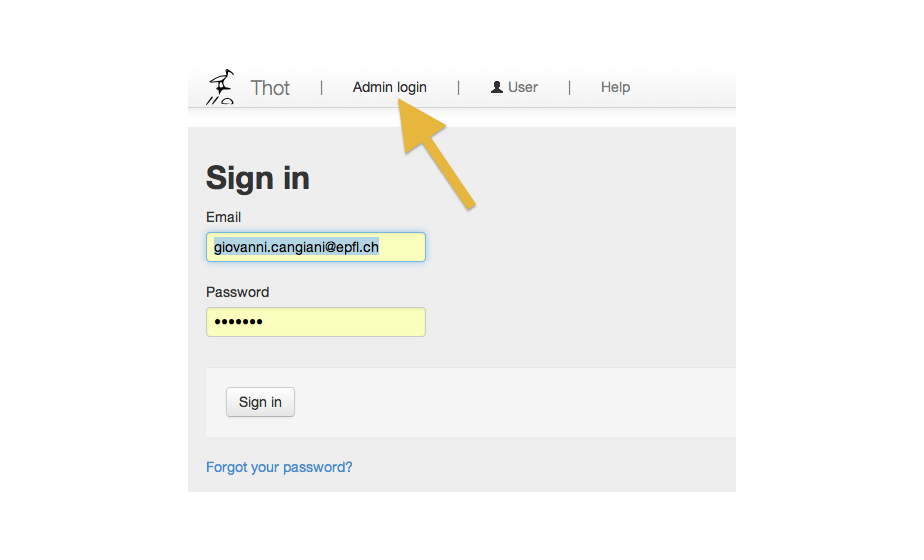
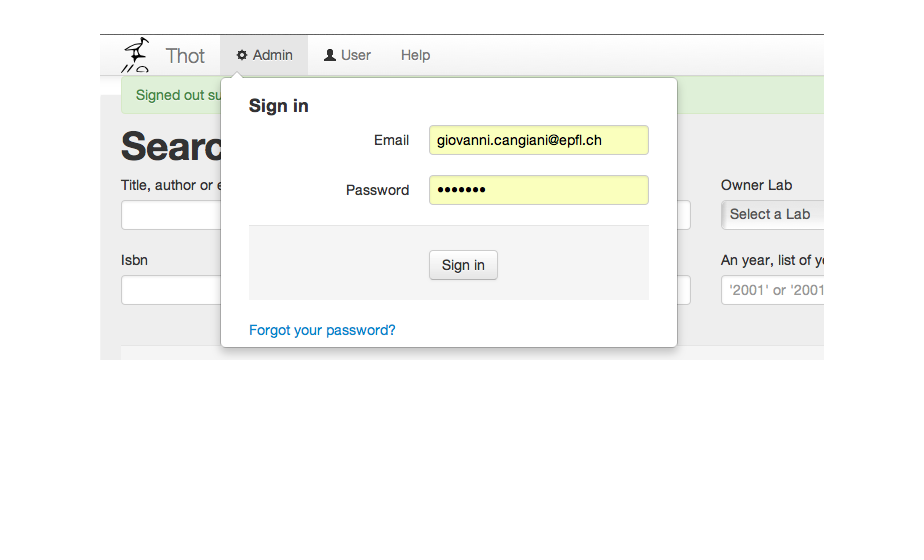
Nicer carousels, correct image for admin login doc

diff --git a/app/assets/stylesheets/application.css.scss b/app/assets/stylesheets/application.css.scss
@@ -216,6 +216,7 @@ span.spacer {
 }
 
 .carousel {
+  background-color: #333;
   border: 1px solid #999;
 }
 /*
@@ -330,9 +331,6 @@ ul.goods {
 }
 
 
-#introcarousel {
-  background-color: #333;
-}
 
 
 
